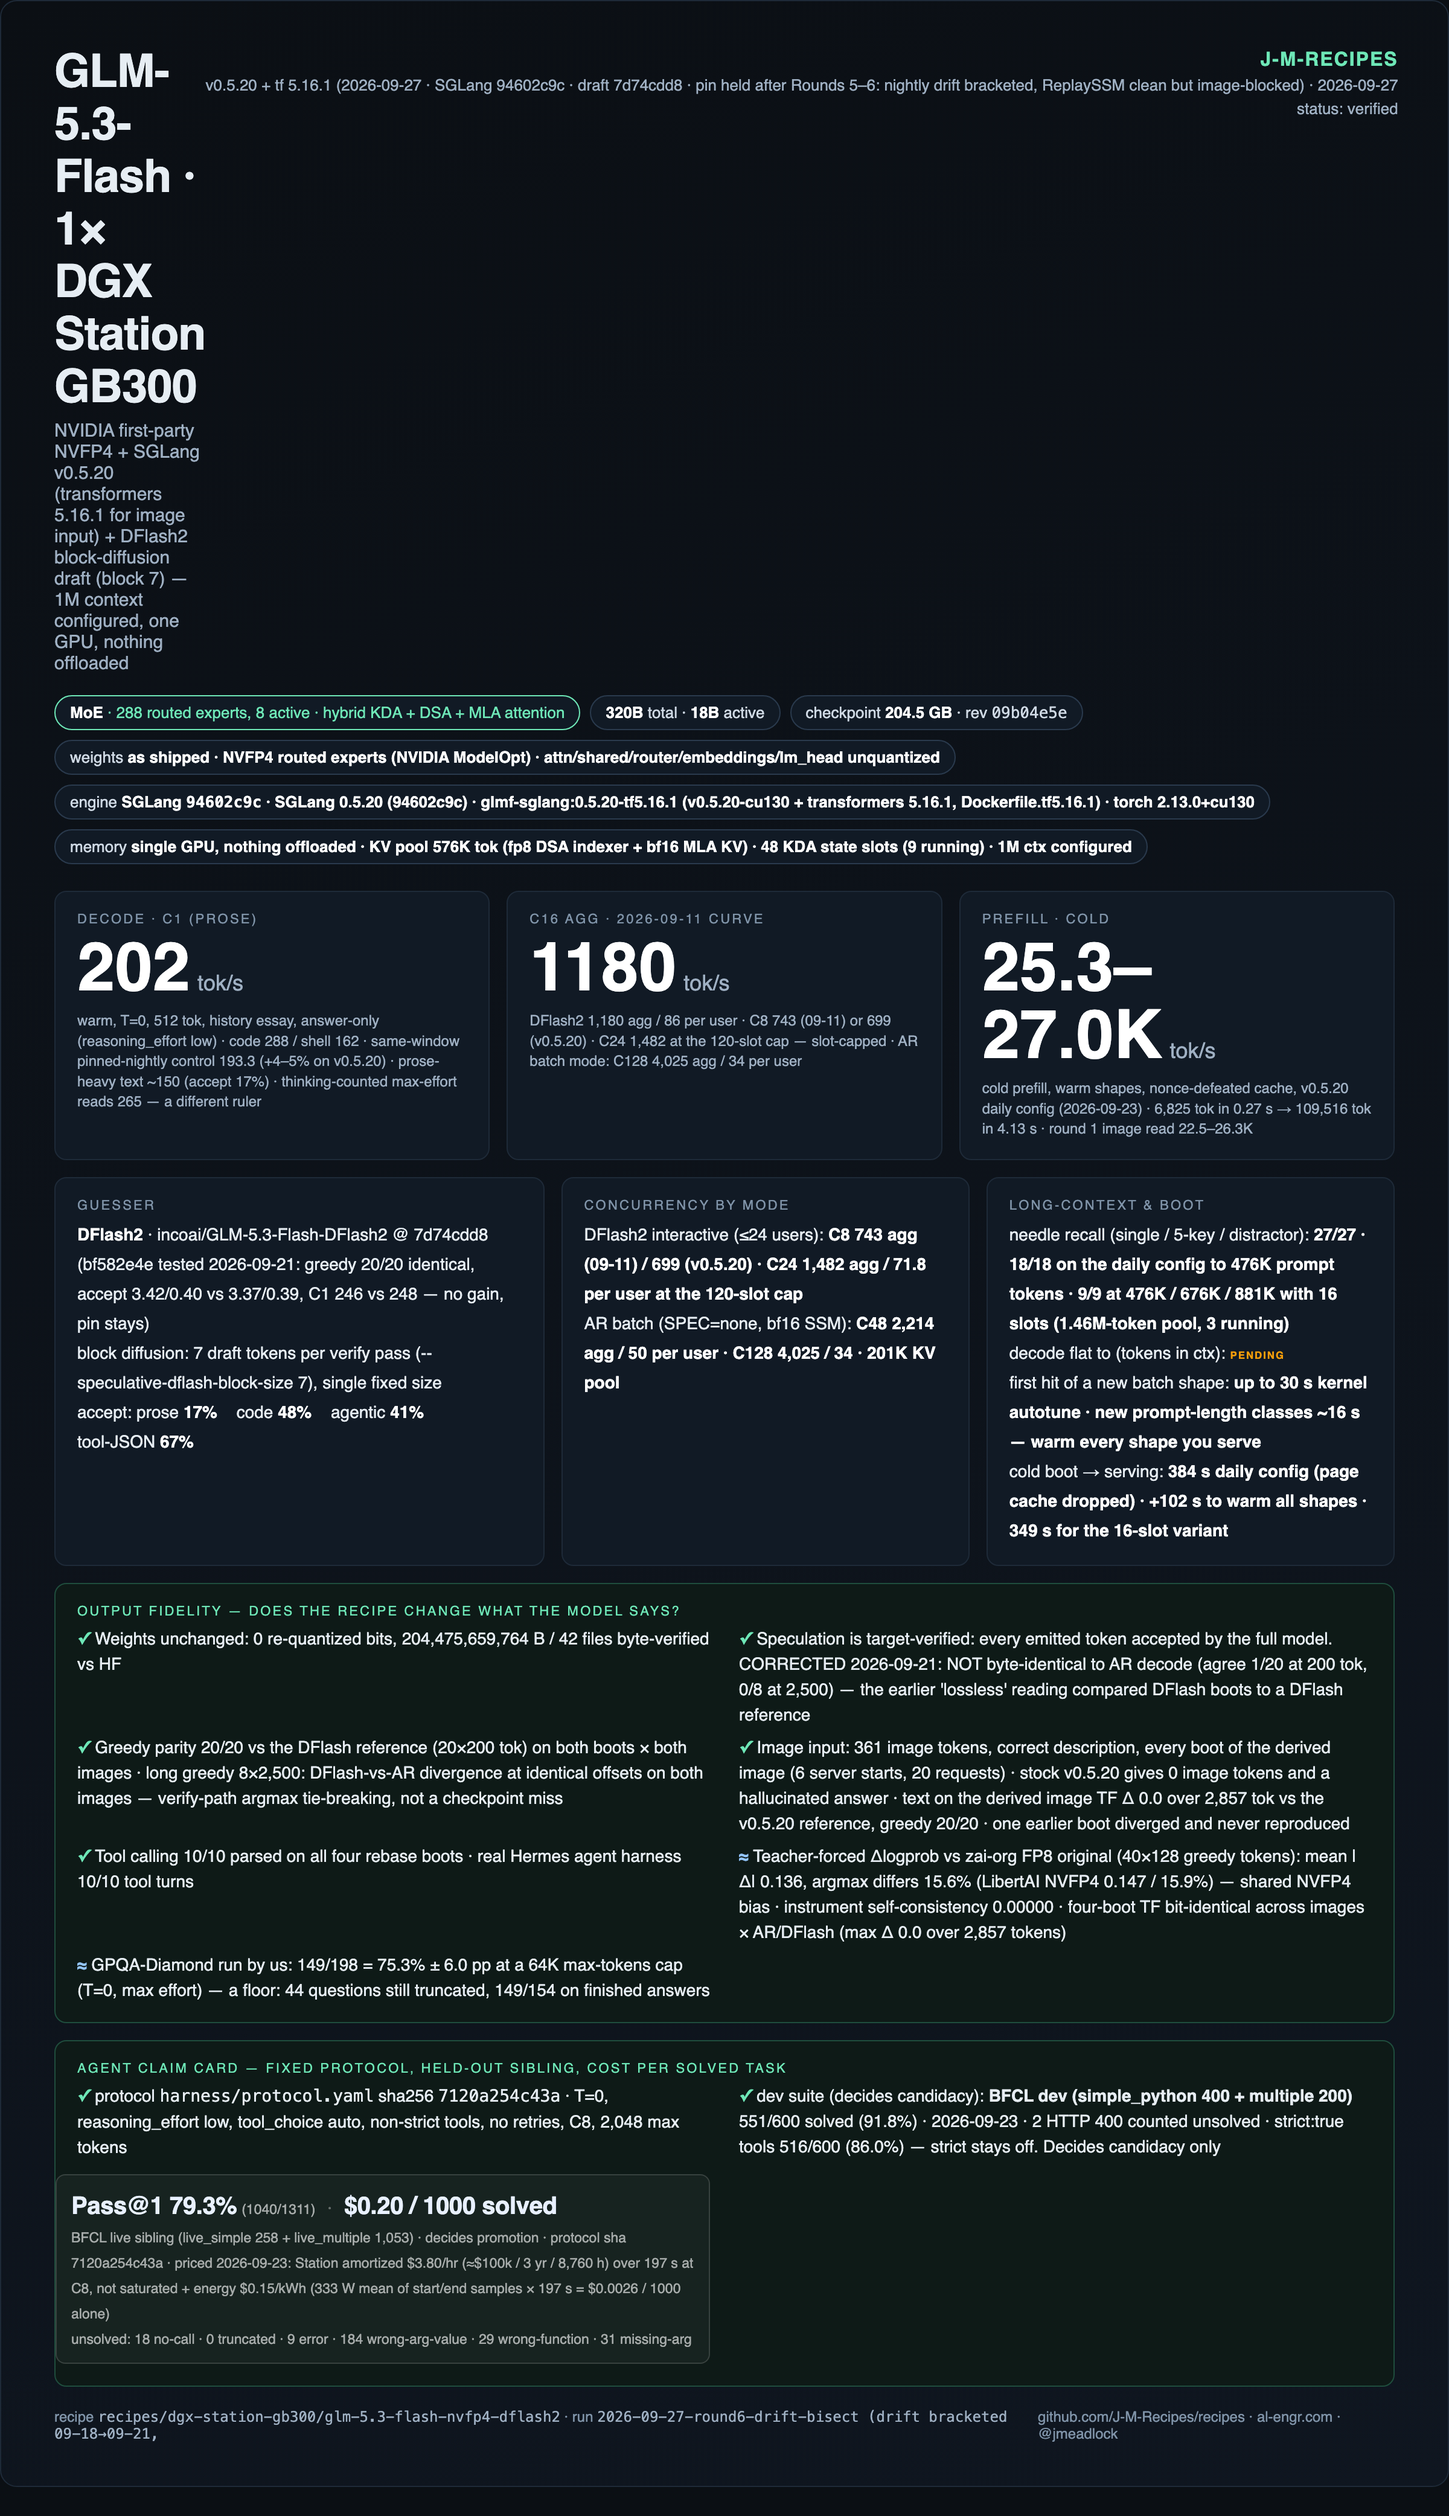
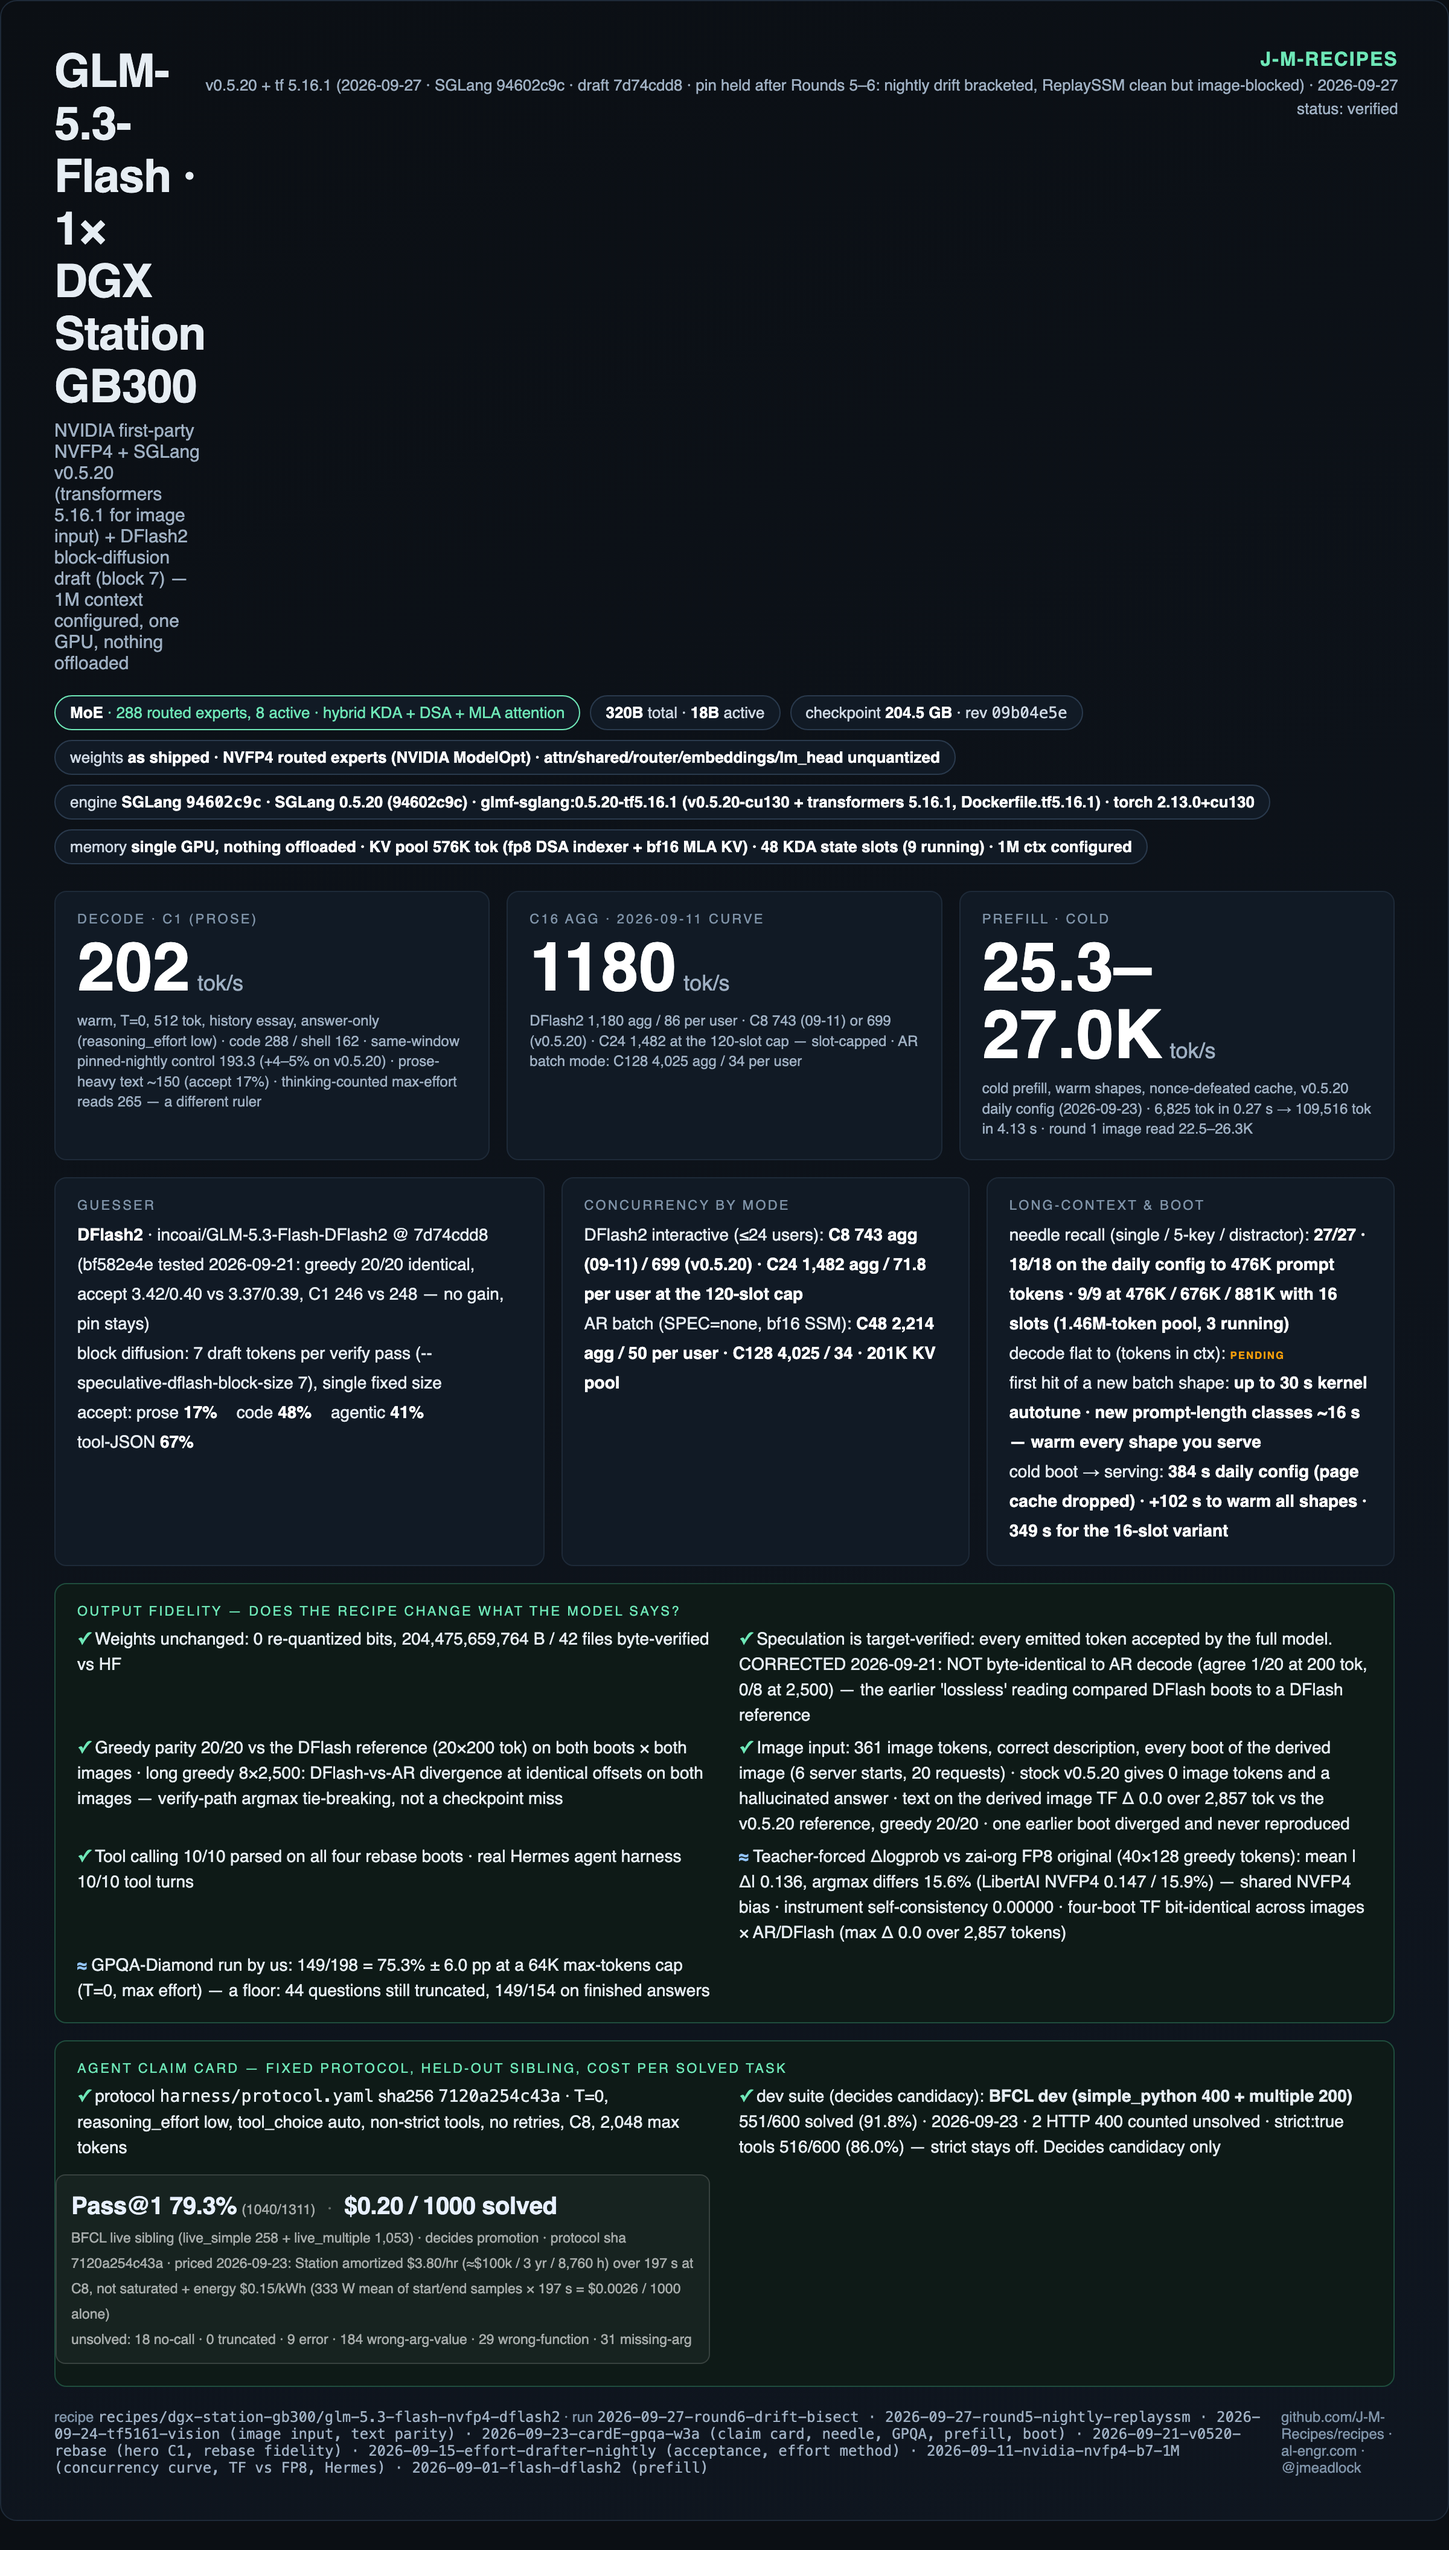
GLM-5.3-Flash card: shorten run_id so footer does not wrap (vision QA)

diff --git a/recipes/dgx-station-gb300/glm-5.3-flash-nvfp4-dflash2/card.html b/recipes/dgx-station-gb300/glm-5.3-flash-nvfp4-dflash2/card.html
@@ -83,7 +83,7 @@
     </ul>
   </div>
   <div class="foot">
-    <span>recipe <span class="mono">recipes/dgx-station-gb300/glm-5.3-flash-nvfp4-dflash2</span> · run <span class="mono">2026-09-27-round6-drift-bisect (drift bracketed 09-18→09-21,</span></span>
+    <span>recipe <span class="mono">recipes/dgx-station-gb300/glm-5.3-flash-nvfp4-dflash2</span> · run <span class="mono">2026-09-27-round6-drift-bisect · 2026-09-27-round5-nightly-replayssm · 2026-09-24-tf5161-vision (image input, text parity) · 2026-09-23-cardE-gpqa-w3a (claim card, needle, GPQA, prefill, boot) · 2026-09-21-v0520-rebase (hero C1, rebase fidelity) · 2026-09-15-effort-drafter-nightly (acceptance, effort method) · 2026-09-11-nvidia-nvfp4-b7-1M (concurrency curve, TF vs FP8, Hermes) · 2026-09-01-flash-dflash2 (prefill)</span></span>
     <span>github.com/J-M-Recipes/recipes · al-engr.com · @jmeadlock</span>
   </div>
 </div>
